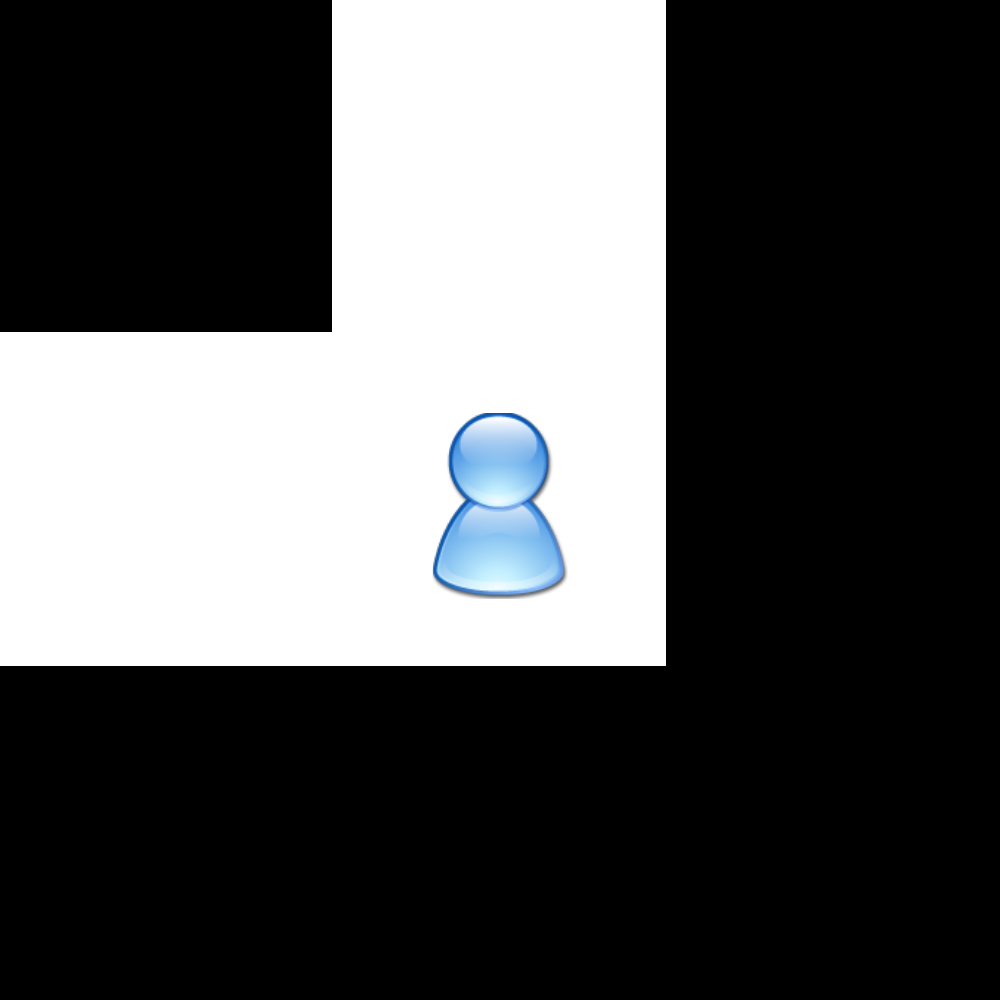
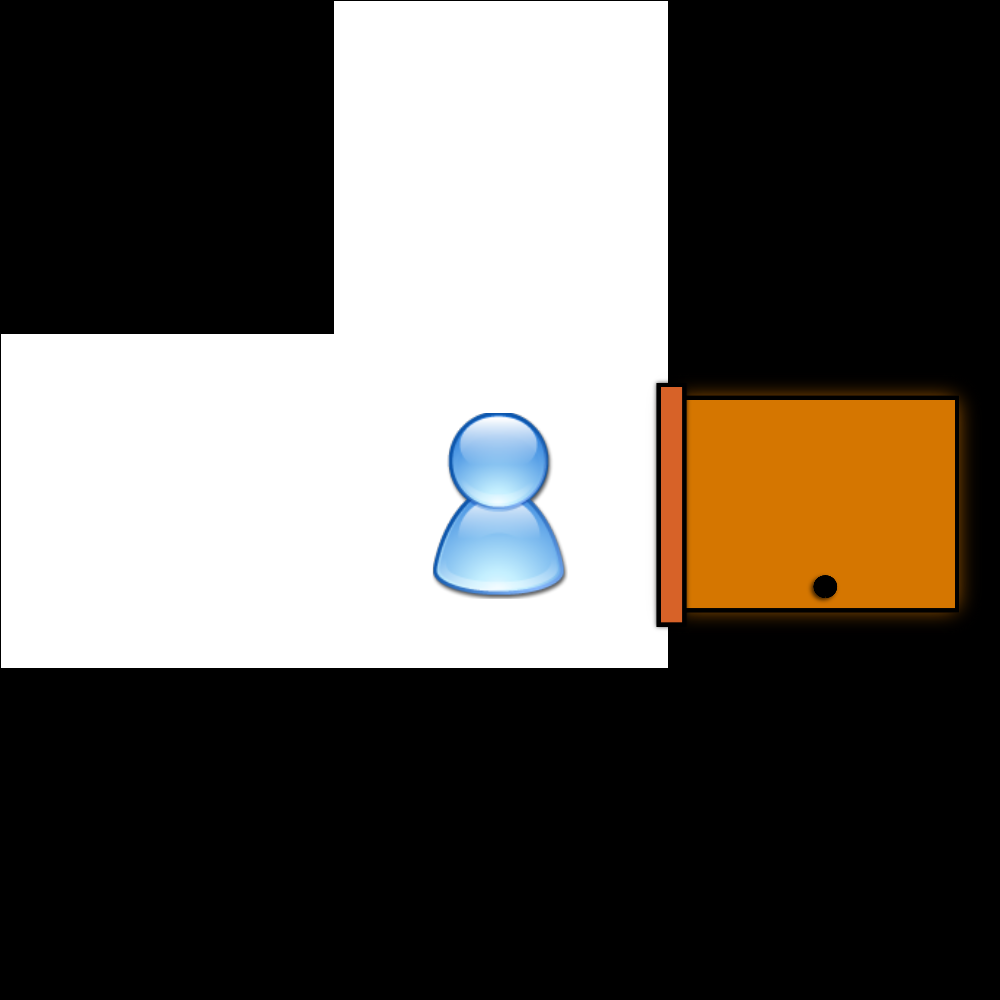
#17 add new doors

Changed region(s): [[0.651, 0.372, 0.992, 0.651]]

diff --git a/html/script/board.js b/html/script/board.js
@@ -50,8 +50,17 @@ function loadBoard() {
         coordinate: '2x1',
         direction: 'west'
     }, {
+        coordinate: '2x2',
+        direction: 'east'
+    }, {
         coordinate: '2x4',
         direction: 'west'
+    }, {
+        coordinate: '2x5',
+        direction: 'north'
+    }, {
+        coordinate: '3x1',
+        direction: 'east'
     }, {
         coordinate: '3x2',
         direction: 'north'
@@ -59,11 +68,17 @@ function loadBoard() {
         coordinate: '3x4',
         direction: 'south'
     }, {
+        coordinate: '3x5',
+        direction: 'east'
+    }, {
         coordinate: '4x1',
         direction: 'west'
     }, {
         coordinate: '4x3',
         direction: 'east'
+    }, {
+        coordinate: '4x4',
+        direction: 'north'
     }, {
         coordinate: '5x2',
         direction: 'north'
